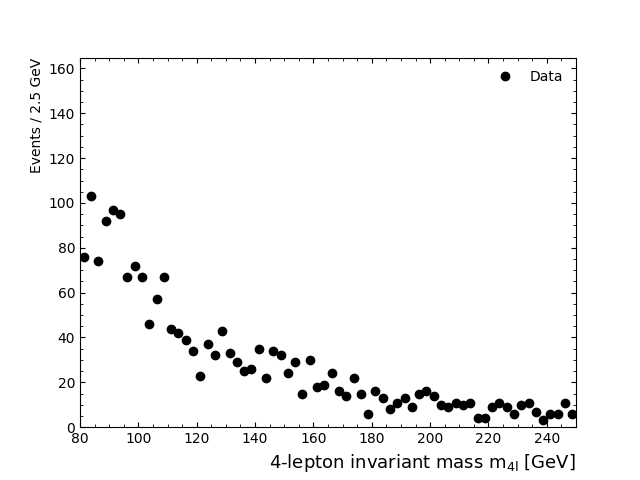
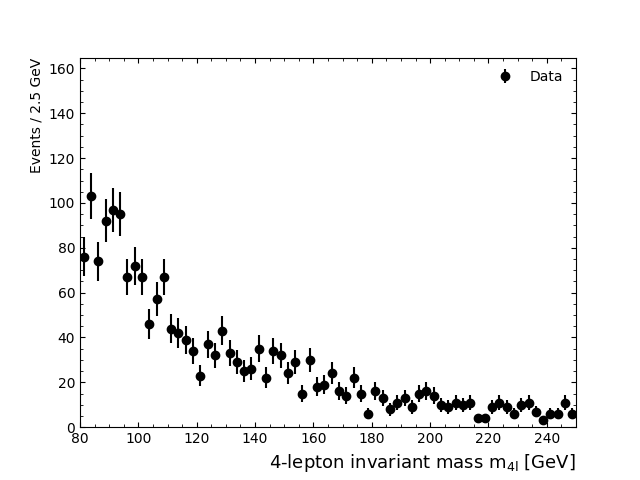
Adding error bars to plot

diff --git a/for_Master/master.py b/for_Master/master.py
@@ -123,7 +123,7 @@ bin_edges = np.arange(start=xmin, # The interval includes this value
 bin_centres = np.arange(start=xmin+step_size/2, # The interval includes this value
                         stop=xmax+step_size/2, # The interval doesn't include this value
                         step=step_size ) # Spacing between values
-
+histogram_errors = np.sqrt(final_histogram) # Calculating statistical error
 # -----------------------------------------------------------------------------------------
 # 7. plotting final histogram
 # -----------------------------------------------------------------------------------------
@@ -134,7 +134,7 @@ bin_centres = np.arange(start=xmin+step_size/2, # The interval includes this val
 main_axes = plt.gca() # get current axes
 
 # plot the data points
-main_axes.errorbar(x=bin_centres, y=final_histogram,
+main_axes.errorbar(x=bin_centres, y=final_histogram, yerr= histogram_errors,
                     fmt='ko', # 'k' means black and 'o' is for circles
                     label='Data')
 
